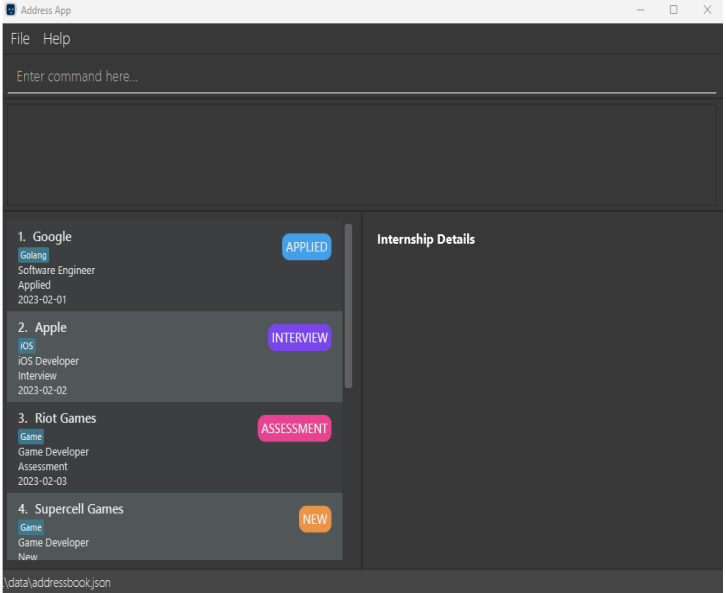
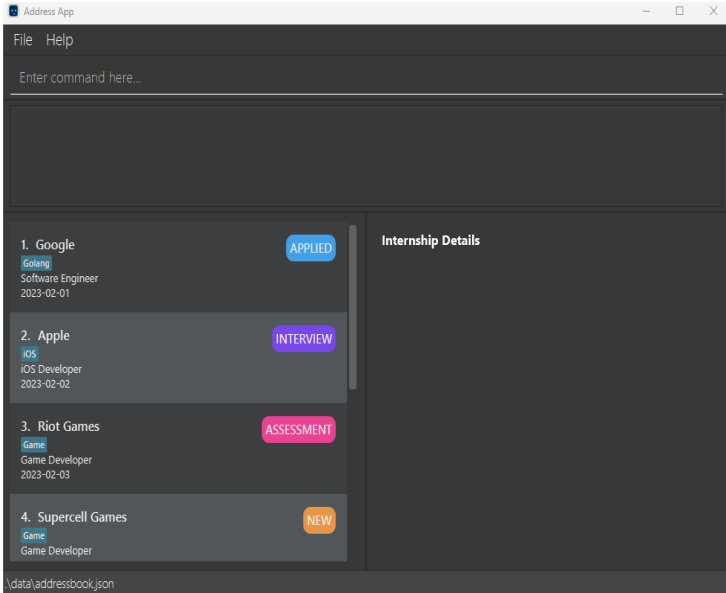
Remove duplicate status

diff --git a/src/test/java/seedu/address/ui/InternshipCardTest.java b/src/test/java/seedu/address/ui/InternshipCardTest.java
@@ -74,17 +74,14 @@ public class InternshipCardTest extends GuiUnitTest {
         //Check Role
         assertTrue(internshipCardInformation.get(2).equals("Cloud Architect"));
 
-        //Check Status
-        assertTrue(internshipCardInformation.get(3).equals("Assessment"));
-
         //Check Date
-        assertTrue(internshipCardInformation.get(4).equals("2023-02-01"));
+        assertTrue(internshipCardInformation.get(3).equals("2023-02-01"));
 
         //Check Tags
-        assertTrue(internshipCardInformation.get(5).equals("aws"));
-        assertTrue(internshipCardInformation.get(6).equals("back"));
+        assertTrue(internshipCardInformation.get(4).equals("aws"));
+        assertTrue(internshipCardInformation.get(5).equals("back"));
 
         //Check Status Label
-        assertTrue(internshipCardInformation.get(7).equals("ASSESSMENT"));
+        assertTrue(internshipCardInformation.get(6).equals("ASSESSMENT"));
     }
 }

diff --git a/src/main/java/seedu/address/ui/InternshipCard.java b/src/main/java/seedu/address/ui/InternshipCard.java
@@ -47,8 +47,6 @@ public class InternshipCard extends UiPart<Region> {
     @FXML
     private Label role;
     @FXML
-    private Label status;
-    @FXML
     private Label date;
     @FXML
     private FlowPane tags;
@@ -74,9 +72,6 @@ public class InternshipCard extends UiPart<Region> {
         role.setText(internship.getRole().fullRole);
         internshipCardInformation.add(role.getText());
 
-        //Add Status
-        status.setText(internship.getStatus().toString());
-        internshipCardInformation.add(status.getText());
 
         //Add Date
         date.setText(internship.getDate().fullDate);
